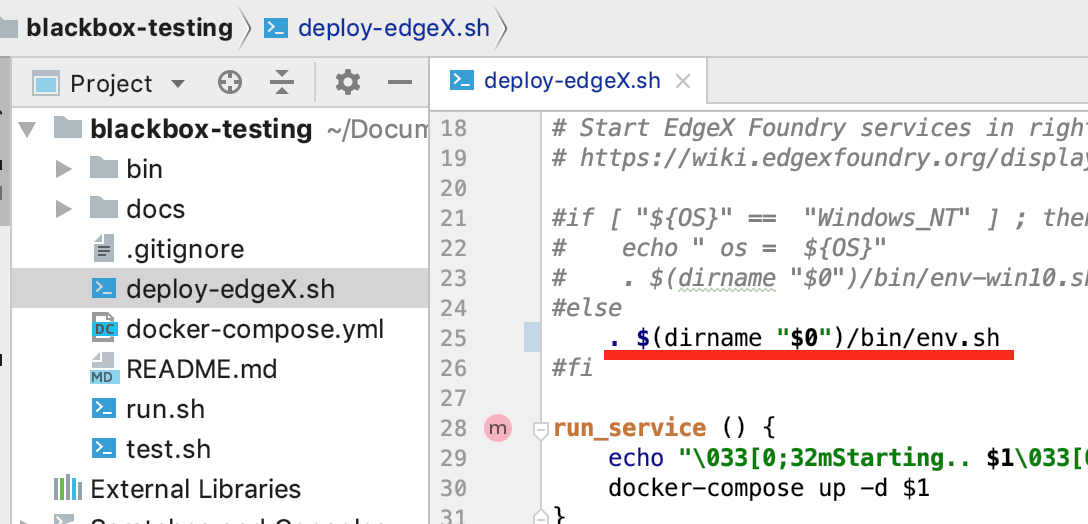
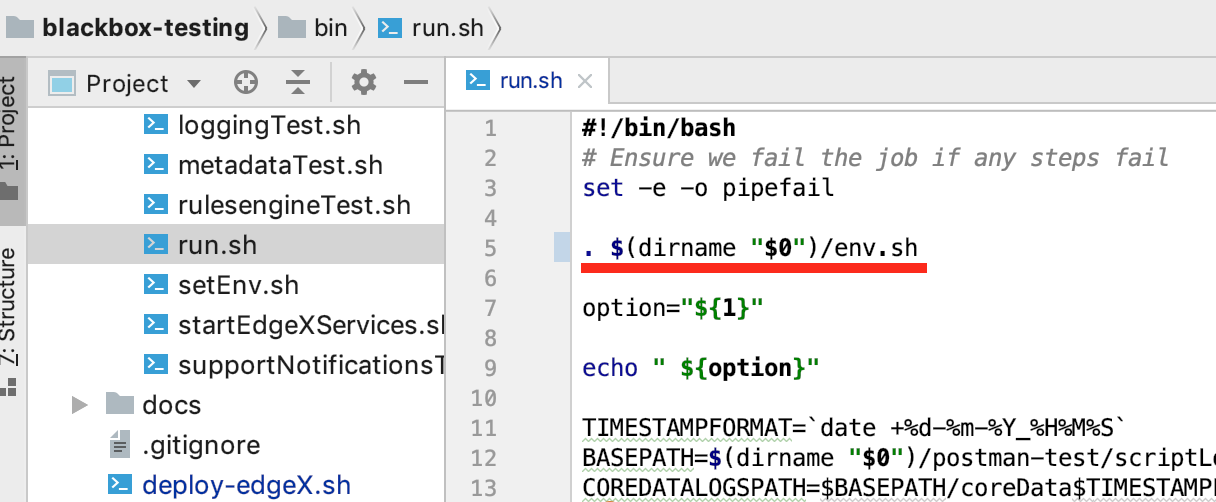
Update doc for the way of running blackbox testing
Fix https://github.com/edgexfoundry/blackbox-testing/issues/375

Changed region(s): [[0.0, 0.0299, 1.0, 1.0], [0.9375, 0.3884, 1.0, 0.4482], [0.9062, 0.4183, 0.9375, 0.4482]]

diff --git a/docs/How-to-run-blackbox-testing.rst b/docs/How-to-run-blackbox-testing.rst
@@ -19,15 +19,7 @@ You must also clone the repo from https://github.com/edgexfoundry/blackbox-testi
 ============
 Setup env.sh
 ============
-To set up the environment variables for the test script, do the following:
-
-1.Open the **path/to/blackbox-testing/deploy-edgeX.sh** file and uncomment the following code snippet:
-
-. $(dirname "$0")/bin/env.sh
-
-.. image:: images/env-setup1.png
-
-2. Open the **path/to/blackbox-testing/bin/run.sh** file and uncomment the following code snippet:
+To set up the environment variables for the test script, open the **path/to/blackbox-testing/bin/run.sh** file and uncomment the following code snippet:
 
 . $(dirname "$0")/env.sh
 
@@ -41,6 +33,9 @@ Change directory to **path/to/blackbox-testing/**, and execute the following com
 
 .. code-block:: bash
 
+        $ export RELEASE=fuji #if using fuji release is needed; the default is nightly-build
+        $ export SECURITY_SERVICE_NEEDED=true #if the security services are needed
+        $ export FOR_REDIS=true #if running the services (no security) with Redis is needed
         $ bash deploy-edgeX.sh
 
 The console displays output similar to the following:
@@ -76,14 +71,14 @@ The console displays output similar to the following:
 
     $ docker ps
     CONTAINER ID        IMAGE                                                              COMMAND                  CREATED             STATUS              PORTS                                                                                                            NAMES
-    f1b490b3e0c3        nexus3.edgexfoundry.org:10004/docker-core-command-go:0.5.2         "/core-command --con…"   3 minutes ago       Up 3 minutes        0.0.0.0:48082->48082/tcp                                                                                         blackbox-testing_command_1
-    055dc4d48442        nexus3.edgexfoundry.org:10004/docker-core-data-go:0.5.2            "/core-data --consul…"   3 minutes ago       Up 3 minutes        0.0.0.0:48080->48080/tcp, 0.0.0.0:32781->5563/tcp                                                                blackbox-testing_data_1
-    e0aa5a675d7d        nexus3.edgexfoundry.org:10004/docker-core-metadata-go:0.5.2        "/core-metadata --co…"   3 minutes ago       Up 3 minutes        0.0.0.0:48081->48081/tcp, 48082/tcp                                                                              blackbox-testing_metadata_1
-    deaa276c175f        nexus3.edgexfoundry.org:10004/docker-support-notifications:0.5.0   "/bin/sh -c 'java -j…"   3 minutes ago       Up 3 minutes        0.0.0.0:48060->48060/tcp                                                                                         blackbox-testing_notifications_1
-    18336488dba4        nexus3.edgexfoundry.org:10004/docker-support-logging-go:0.5.2      "/support-logging --…"   4 minutes ago       Up 4 minutes        0.0.0.0:48061->48061/tcp                                                                                         blackbox-testing_logging_1
+    f1b490b3e0c3        nexus3.edgexfoundry.org:10004/docker-core-command-go:master         "/core-command --con…"   3 minutes ago       Up 3 minutes        0.0.0.0:48082->48082/tcp                                                                                         blackbox-testing_command_1
+    055dc4d48442        nexus3.edgexfoundry.org:10004/docker-core-data-go:master            "/core-data --consul…"   3 minutes ago       Up 3 minutes        0.0.0.0:48080->48080/tcp, 0.0.0.0:32781->5563/tcp                                                                blackbox-testing_data_1
+    e0aa5a675d7d        nexus3.edgexfoundry.org:10004/docker-core-metadata-go:master        "/core-metadata --co…"   3 minutes ago       Up 3 minutes        0.0.0.0:48081->48081/tcp, 48082/tcp                                                                              blackbox-testing_metadata_1
+    deaa276c175f        nexus3.edgexfoundry.org:10004/docker-support-notifications:master   "/bin/sh -c 'java -j…"   3 minutes ago       Up 3 minutes        0.0.0.0:48060->48060/tcp                                                                                         blackbox-testing_notifications_1
+    18336488dba4        nexus3.edgexfoundry.org:10004/docker-support-logging-go:master      "/support-logging --…"   4 minutes ago       Up 4 minutes        0.0.0.0:48061->48061/tcp                                                                                         blackbox-testing_logging_1
     05896fe88e17        nexus3.edgexfoundry.org:10004/docker-edgex-mongo:master            "docker-entrypoint.s…"   4 minutes ago       Up 4 minutes        0.0.0.0:27017->27017/tcp                                                                                         blackbox-testing_mongo_1
     85d0e33c4924        nexus3.edgexfoundry.org:10004/docker-core-config-seed-go:master    "docker-entrypoint.s…"   4 minutes ago       Up 4 minutes        8300-8302/tcp, 8400/tcp, 8500/tcp, 8301-8302/udp, 8600/tcp, 8600/udp                                             blackbox-testing_config-seed_1
-    9e4bf85969d7        consul:1.1.0                                                       "docker-entrypoint.s…"   4 minutes ago       Up 4 minutes        0.0.0.0:8400->8400/tcp, 8301-8302/udp, 0.0.0.0:8500->8500/tcp, 8300-8302/tcp, 8600/udp, 0.0.0.0:8600->8600/tcp   blackbox-testing_consul_1
+    9e4bf85969d7        consul:1.3.1                                                       "docker-entrypoint.s…"   4 minutes ago       Up 4 minutes        0.0.0.0:8400->8400/tcp, 8301-8302/udp, 0.0.0.0:8500->8500/tcp, 8300-8302/tcp, 8600/udp, 0.0.0.0:8600->8600/tcp   blackbox-testing_consul_1
     47f532468383        nexus3.edgexfoundry.org:10004/docker-edgex-volume:master           "/bin/sh -c '/usr/bi…"   4 minutes ago       Up 4 minutes                                                                                                                         blackbox-testing_volume_1
 
 =====================
@@ -96,7 +91,7 @@ The script logic is as follows:
 - Run the Newman test script
 - Clean test data
 
-For example, when we execute **bash ./bin/run.sh -cd**, then the script logic is:
+For example, when we execute **bash ./run.sh -cd** under **path/to/blackbox-testing/bin**, then the script logic is:
 
 - Import core-data's test data into Edgex
 - Run core-data's test script
@@ -106,7 +101,7 @@ The output is similar to the following:
 
 .. code-block:: bash
 
-    $ bash ./bin/run.sh -cd
+    $ cd bin; bash ./run.sh -cd
     -cd
     *********************************************************************
      _____    _           __  __  _____                     _            
@@ -194,11 +189,11 @@ core-command	         bash ./bin/run.sh -co
 All	                     bash ./bin/run.sh -all 
 ======================  ======================
 
-You can run bash ./bin/run.sh to list these options:
+You can run bash ./run.sh under **path/to/blackbox-testing/bin** to list these options:
 
 .. code-block:: bash
 
-    $ bash ./bin/run.sh
+    $ bash ./run.sh
     ...
     ...
     [INFO] Init postman test data .
@@ -231,6 +226,8 @@ For example:
 .. image:: images/allure-serve.png
 
 For more information about the Allure framework, visit https://docs.qameta.io/allure/
+
+Another way to get Allure report is using Allure docker service, see https://github.com/fescobar/allure-docker-service
 
 ------------------------------------------
 Running Newman Tests for Local Development
